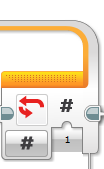
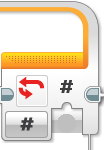
added more better pictures

diff --git a/ev3DiffTester/src/com/gmeci/EV3Display/EV3ImageManager.java b/ev3DiffTester/src/com/gmeci/EV3Display/EV3ImageManager.java
@@ -28,8 +28,8 @@ public class EV3ImageManager {
 	BufferedImage largeMotorOffImage, mediumOffImage, steerOffImage, tankOffImage;
 	BufferedImage largeMotorOnImage, mediumOnImage, steerOnImage,tankOnImage;
 	BufferedImage largeMotorTimeImage, mediumTimeImage, steerTimeImage, tankTimeImage ;
-	BufferedImage loopLeftImage, loopTimeCompareImage, loopInfiniteImage,loopButtonCompareImage;
-	BufferedImage wait_color,interrupt,wait_button;
+	BufferedImage loopLeftImage, loopTimeCompareImage, loopInfiniteImage,loopButtonCompareImage,loopColorCompareImage,loopGyroAngleCompareImage,loopGyroRateCompareImage,loopLightCompareImage;
+	BufferedImage wait_color,interrupt,wait_button,wait_GyroAngle,wait_light,wait_GyroRate;
 	
 	HashMap<String, BufferedImage> ImageNameMap = new HashMap<String, BufferedImage>();
 	
@@ -132,11 +132,51 @@ public class EV3ImageManager {
 			ImageNameMap.put(EV3Program.LOOP_TIME_COMPARE, loopTimeCompareImage);	
 			loopButtonCompareImage = ImageIO.read(getClass().getResource( "/resources/loop_right_buttons.PNG" ));
 			ImageNameMap.put("ButtonCompare"+LOOP, loopButtonCompareImage);	
+			loopColorCompareImage = ImageIO.read(getClass().getResource( "/resources/loop_right_color.PNG" ));
+			ImageNameMap.put("ColorCompare"+LOOP, loopColorCompareImage);
+			loopGyroAngleCompareImage = ImageIO.read(getClass().getResource( "/resources/loop_right_angle.PNG" ));
+			ImageNameMap.put("GyroAngleCompare"+LOOP, loopGyroAngleCompareImage);	
+			loopGyroRateCompareImage = ImageIO.read(getClass().getResource( "/resources/loop_right_rate.PNG" ));
+			ImageNameMap.put("GyroRateCompare"+LOOP, loopGyroRateCompareImage);	
+			loopLightCompareImage = ImageIO.read(getClass().getResource( "/resources/loop_right_light.PNG" ));
+			ImageNameMap.put("ColorReflectedIntensityCompare"+LOOP, loopLightCompareImage);	
+			BufferedImage loopTouchCompareImage = ImageIO.read(getClass().getResource( "/resources/loop_right_touch.PNG" ));
+			ImageNameMap.put("TouchCompare"+LOOP, loopTouchCompareImage);	
+			BufferedImage loopMotorRotationCompareImage = ImageIO.read(getClass().getResource( "/resources/loop_right_motor_rotation.PNG" ));
+			ImageNameMap.put("RotationDegreesCompare"+LOOP, loopMotorRotationCompareImage);	
+			BufferedImage loopUltrasonicCMImage = ImageIO.read(getClass().getResource( "/resources/loop_right_ultrasonic.PNG" ));
+			ImageNameMap.put("DistanceCMCompare"+LOOP, loopUltrasonicCMImage);	
+			BufferedImage loopMotorRotationRotationsCompareImage = ImageIO.read(getClass().getResource( "/resources/loop_right_rotations_rotations.PNG" ));
+			ImageNameMap.put("RotationRotationsCompare"+LOOP, loopMotorRotationRotationsCompareImage);
+			BufferedImage loopCountImage = ImageIO.read(getClass().getResource( "/resources/loop_right_count.PNG" ));
+			ImageNameMap.put("StopAfterNumberIterations"+LOOP, loopCountImage);	
+			BufferedImage loopUltrasonicINImage = ImageIO.read(getClass().getResource( "/resources/loop_right_distance_in.PNG" ));
+			ImageNameMap.put("DistanceInchesCompare"+LOOP, loopUltrasonicINImage);
+			
 
-			wait_color = ImageIO.read(getClass().getResource( "/resources/color_compare.PNG" ));
-			ImageNameMap.put("ColorCompare", wait_color);	
+			wait_color = ImageIO.read(getClass().getResource( "/resources/wait_color_compare.PNG" ));
+			ImageNameMap.put("ColorCompare"+WAIT, wait_color);	
 			wait_button = ImageIO.read(getClass().getResource( "/resources/wait_button.PNG" ));
 			ImageNameMap.put("ButtonCompare"+WAIT, wait_button);	
+			wait_GyroAngle = ImageIO.read(getClass().getResource( "/resources/wait_gyro_angle.PNG" ));
+			ImageNameMap.put("GyroAngleCompare"+WAIT, wait_GyroAngle);	
+			wait_light = ImageIO.read(getClass().getResource( "/resources/wait_gyro_angle.PNG" ));
+			ImageNameMap.put("ColorReflectedIntensityCompare"+WAIT, wait_light);	
+			wait_GyroRate = ImageIO.read(getClass().getResource( "/resources/wait_gyro_angle.PNG" ));
+			ImageNameMap.put("DeltaWaitGyroRate"+WAIT, wait_GyroRate);	
+			BufferedImage wait_touch = ImageIO.read(getClass().getResource( "/resources/wait_touch.PNG" ));
+			ImageNameMap.put("TouchCompare"+WAIT,wait_touch);	
+			BufferedImage wait_motor_rotation = ImageIO.read(getClass().getResource( "/resources/wait_motor_rotation.PNG" ));
+			ImageNameMap.put("RotationDegreesCompare"+WAIT, wait_motor_rotation);	
+			BufferedImage wait_ultrasonic_cm = ImageIO.read(getClass().getResource( "/resources/wait_ultrasonic_cm.PNG" ));
+			ImageNameMap.put("DistanceCMCompare"+WAIT,wait_ultrasonic_cm);	
+			BufferedImage wait_motor_rotation_rotation = ImageIO.read(getClass().getResource( "/resources/wait_motor_rotation.PNG" ));
+			ImageNameMap.put("RotationRotationsCompare"+WAIT, wait_motor_rotation_rotation);	
+			BufferedImage wait_time = ImageIO.read(getClass().getResource( "/resources/wait_time.PNG" ));
+			ImageNameMap.put("TimeCompare"+WAIT,wait_time);	
+			BufferedImage wait_distance_inches = ImageIO.read(getClass().getResource( "/resources/wait_ultrasonic_in.PNG" ));
+			ImageNameMap.put("DistanceInchesCompare"+WAIT, wait_distance_inches);	
+			
 			
 			interrupt = ImageIO.read(getClass().getResource( "/resources/interrupt.PNG" ));
 			ImageNameMap.put(TOGGLE_INTERRUPT, interrupt);	
@@ -160,12 +200,55 @@ public class EV3ImageManager {
 
 			Red_VariableSet = ImageIO.read(getClass().getResource( "/resources/variable_setSingle.PNG" ));
 			ImageNameMap.put("GlobalSetSingle", Red_VariableSet);	
+			BufferedImage RedGetString  = ImageIO.read(getClass().getResource( "/resources/var_get_string.PNG" ));
+			ImageNameMap.put("GlobalGetString", RedGetString);
+			BufferedImage RedGetSingle  = ImageIO.read(getClass().getResource( "/resources/var_get_number.PNG" ));
+			ImageNameMap.put("GlobalGetSingle", RedGetSingle);
+			BufferedImage RedGetBoolean  = ImageIO.read(getClass().getResource( "/resources/var_get_bool.PNG" ));
+			ImageNameMap.put("GlobalGetBoolean", RedGetBoolean);
+			BufferedImage RedSetString  = ImageIO.read(getClass().getResource( "/resources/var_set_string.PNG" ));
+			ImageNameMap.put("GlobalSetString", RedSetString);
+			BufferedImage RedSetBoolean  = ImageIO.read(getClass().getResource( "/resources/var_set_bool.PNG" ));
+			ImageNameMap.put("GlobalSetBoolean", RedSetBoolean);
+
+			
+
 			Red_ConstanteRead = ImageIO.read(getClass().getResource( "/resources/variable_setSingle.PNG" ));
 			ImageNameMap.put("GlobalConstSingle", Red_ConstanteRead);		
+			BufferedImage Red_ConstanteBoolean = ImageIO.read(getClass().getResource( "/resources/const_bool.PNG" ));
+			ImageNameMap.put("GlobalConstBoolean", Red_ConstanteBoolean);		
+			BufferedImage Red_ConstanteString = ImageIO.read(getClass().getResource( "/resources/const_string.PNG" ));
+			ImageNameMap.put("GlobalConstString", Red_ConstanteString);		
+			
 			Red_MathAdd = ImageIO.read(getClass().getResource( "/resources/arithmetic_add.PNG" ));
-			ImageNameMap.put("Arithmetic_Add", Red_MathAdd);			
+			ImageNameMap.put("Arithmetic_Add", Red_MathAdd);	
+			BufferedImage RedMult  = ImageIO.read(getClass().getResource( "/resources/arithmetic_multiply.PNG" ));
+			ImageNameMap.put("Arithmetic_Multiply", RedMult);	
+			BufferedImage RedDiv  = ImageIO.read(getClass().getResource( "/resources/arithmetic_divide.PNG" ));
+			ImageNameMap.put("Arithmetic_Divide", RedDiv);
+			BufferedImage RedSub  = ImageIO.read(getClass().getResource( "/resources/arithmetic_subtract.PNG" ));
+			ImageNameMap.put("Arithmetic_Subtract", RedSub);
+			BufferedImage RedAbs  = ImageIO.read(getClass().getResource( "/resources/arithmetic_abs.PNG" ));
+			ImageNameMap.put("Arithmetic_AbsoluteValue", RedAbs);
+			BufferedImage RedSqrt  = ImageIO.read(getClass().getResource( "/resources/arithmetic_sqrt.PNG" ));
+			ImageNameMap.put("Arithmetic_SquareRoot", RedSqrt);
+			BufferedImage RedPow  = ImageIO.read(getClass().getResource( "/resources/arithmetic_pow.PNG" ));
+			ImageNameMap.put("Arithmetic_Power", RedPow);
+
+			
+
 			Red_CompareEquals = ImageIO.read(getClass().getResource( "/resources/compare_equals.PNG" ));
 			ImageNameMap.put("Comparison_Equal", Red_CompareEquals);	
+			BufferedImage Red_CompareNotEquals = ImageIO.read(getClass().getResource( "/resources/compare_notequals.PNG" ));
+			ImageNameMap.put("Comparison_NotEqual", Red_CompareNotEquals);	
+			BufferedImage Red_CompareLess = ImageIO.read(getClass().getResource( "/resources/compare_less.PNG" ));
+			ImageNameMap.put("Comparison_Less", Red_CompareLess);	
+			BufferedImage Red_CompareGreater = ImageIO.read(getClass().getResource( "/resources/compare_greater.PNG" ));
+			ImageNameMap.put("Comparison_Greater", Red_CompareGreater);	
+			BufferedImage Red_CompareGreaterEqual = ImageIO.read(getClass().getResource( "/resources/compare_greaterequals.PNG" ));
+			ImageNameMap.put("Comparison_GreaterEqual", Red_CompareGreaterEqual);	
+			BufferedImage Red_CompareLessEqual = ImageIO.read(getClass().getResource( "/resources/compare_lessequals.PNG" ));
+			ImageNameMap.put("Comparison_LessEqual", Red_CompareLessEqual);	
 			
 
 			Blue_ReverseMotor = ImageIO.read(getClass().getResource( "/resources/reverse_motor.PNG" ));
@@ -233,6 +316,9 @@ public class EV3ImageManager {
 		PanOffsetX+= p.x-MouseDownStart.x;
 		PanOffsetY+= p.y-MouseDownStart.y;
 		
+		MouseDownStart.x = p.x;
+		MouseDownStart.y = p.y;
+		System.out.println("panning "+ PanOffsetX+" "+PanOffsetY);
 	}
 
 

diff --git a/ev3DiffTester/src/com/gmeci/EV3Display/EV3Panel.java b/ev3DiffTester/src/com/gmeci/EV3Display/EV3Panel.java
@@ -130,7 +130,7 @@ public class EV3Panel extends JPanel {
 			}
 
 			System.out.println("Target Name "+ TargetName);
-			
+			int RightImageWidth=0;
 			if(!ev3im.imageAvailable(TargetName))
 			{
 				if(TargetName.contains(EV3Program.MY_BLOCK_SUFFIX))
@@ -167,7 +167,7 @@ public class EV3Panel extends JPanel {
 					g2d.drawImage(newImage2Draw,rop,  (int)(Scale* (block.Bound[0]+XOffset)),(int) ( RealStretch* (Scale*(  block.Bound[1]+YOffset)))); 
 					//					//need a right side also...
 					BufferedImage newImage2Draw2 = ev3im.ImageNameMap.get(TargetName);	
-					int RightImageWidth = newImage2Draw2.getWidth();
+					RightImageWidth = newImage2Draw2.getWidth();
 					g2d.drawImage(newImage2Draw2,rop,  (int)(Scale* (block.Bound[0]+ block.Bound[2]-RightImageWidth+XOffset)),(int) ( RealStretch* (Scale*(LOOP_OFFSET_Y+ block.Bound[1]+YOffset)))); // see javadoc for more info on the parameters 
 
 					//put the interrupt name in the middle???
@@ -191,7 +191,7 @@ public class EV3Panel extends JPanel {
 					g2d.drawImage(newImage2Draw,rop,  (int)(Scale* (block.Bound[0]+XOffset)),(int) ( RealStretch* (Scale*(  block.Bound[1]+YOffset-24)))); 
 					//					//need a right side also...
 					BufferedImage newImage2Draw2 = ev3im.ImageNameMap.get(TargetName);	
-					int RightImageWidth = newImage2Draw2.getWidth();
+					RightImageWidth = newImage2Draw2.getWidth();
 					g2d.drawImage(newImage2Draw2,rop,  (int)(Scale* (block.Bound[0]+ block.Bound[2]-RightImageWidth+XOffset)),(int) ( RealStretch* (Scale*(LOOP_OFFSET_Y+ block.Bound[1]+YOffset)))); // see javadoc for more info on the parameters 
 
 					//put the interrupt name in the middle???
@@ -217,8 +217,8 @@ public class EV3Panel extends JPanel {
 						g2d.drawImage(newImage2Draw,rop,  (int)(Scale* (block.Bound[0]+XOffset)),(int) ( RealStretch* (Scale*(  block.Bound[1]+YOffset-24)))); 
 						//					//need a right side also...
 						BufferedImage newImage2Draw2 = ev3im.ImageNameMap.get(TargetName);	
-						int RightImageWidth = newImage2Draw2.getWidth();
-						g2d.drawImage(newImage2Draw2,rop,  (int)(Scale* (block.Bound[0]+ block.Bound[2]-RightImageWidth+XOffset)),(int) ( RealStretch* (Scale*(LOOP_OFFSET_Y+ block.Bound[1]+YOffset)))); // see javadoc for more info on the parameters 
+						RightImageWidth = newImage2Draw2.getWidth();
+						g2d.drawImage(newImage2Draw2,rop,  (int)(Scale* (block.Bound[0]+ block.Bound[2]-RightImageWidth+XOffset)),(int) ( RealStretch* (Scale*(LOOP_OFFSET_Y+ block.Bound[1]+YOffset+20)))); // see javadoc for more info on the parameters 
 
 						//put the interrupt name in the middle???
 						g2d.drawString(block.interrupt,(int)(Scale* (block.Bound[0]+ (block.Bound[2]/2)+XOffset)),(int) ( RealStretch* (Scale*( block.Bound[1]+YOffset))));
@@ -227,7 +227,7 @@ public class EV3Panel extends JPanel {
 						TerminalItem LongItem = GetTerminalListItemValue(block.terminalItems, EV3Program.HOW_LONG);
 						if(LongItem!= null)
 						{
-							g2d.drawString(LongItem.ConfiguredValue, (int)(Scale*(block.Bound[0]+ + block.Bound[2]+XOffset+LOOP_TIMER_OFFSET_X)),(int) ( RealStretch* (Scale*(  LongItem.Bound[1]+YOffset- LOOP_OFFSET_Y))));
+							g2d.drawString(LongItem.ConfiguredValue, (int)(Scale*(block.Bound[0]+  block.Bound[2]+XOffset+LOOP_TIMER_OFFSET_X)),(int) ( RealStretch* (Scale*(  LongItem.Bound[1]+YOffset- LOOP_OFFSET_Y))));
 						}
 					}
 					else
@@ -271,6 +271,14 @@ public class EV3Panel extends JPanel {
 						offsetX += 60;
 					}
 					else offsetY += 20;
+					if(block.Modifier.equals(EV3ImageManager.LOOP))
+					{
+						offsetX += (Scale* ( block.Bound[2]-RightImageWidth));//this gets added in when drawing the string:block.Bound[0]
+						offsetY = 50;
+						
+					}
+					else
+						offsetY = 0;
 //System.out.println("ID "+terminal.ID+ " value:"+terminal.ConfiguredValue);
 					String Text2Show = terminal.ConfiguredValue.replace("1.","");
 					if(Text2Show.equals("3"))
@@ -280,6 +288,14 @@ public class EV3Panel extends JPanel {
 					else if(terminal.ConfiguredValue.equals("False"))
 						Text2Show=" X";
 
+					if(terminal.ID.equals("LoopIterationCount")&& terminal.Bound[0] ==0)
+						continue;
+					if(terminal.ConfiguredValue==null )
+						continue;
+
+					if(terminal.ID.equals("Result") && terminal.Bound[0] == 0 )
+						continue;
+					
 					Font oldFont=null;
 					if(terminal.changed)
 					{
@@ -288,7 +304,7 @@ public class EV3Panel extends JPanel {
 						g2d.setColor(Color.RED);
 					}
 
-					g2d.drawString(Text2Show, (int)(Scale*(terminal.Bound[0]+ block.Bound[0]+ offsetX)), (RealStretch* YOffset)+terminal.Bound[1]+(int)(RealStretch*(Scale*(15+block.Bound[1]))));
+					g2d.drawString(Text2Show, (int)(Scale*(terminal.Bound[0]+ block.Bound[0]+ offsetX)), (RealStretch* YOffset)+terminal.Bound[1]+(int)(RealStretch*(Scale*(15+block.Bound[1])+ offsetY)));
 
 					if(terminal.changed)
 					{
